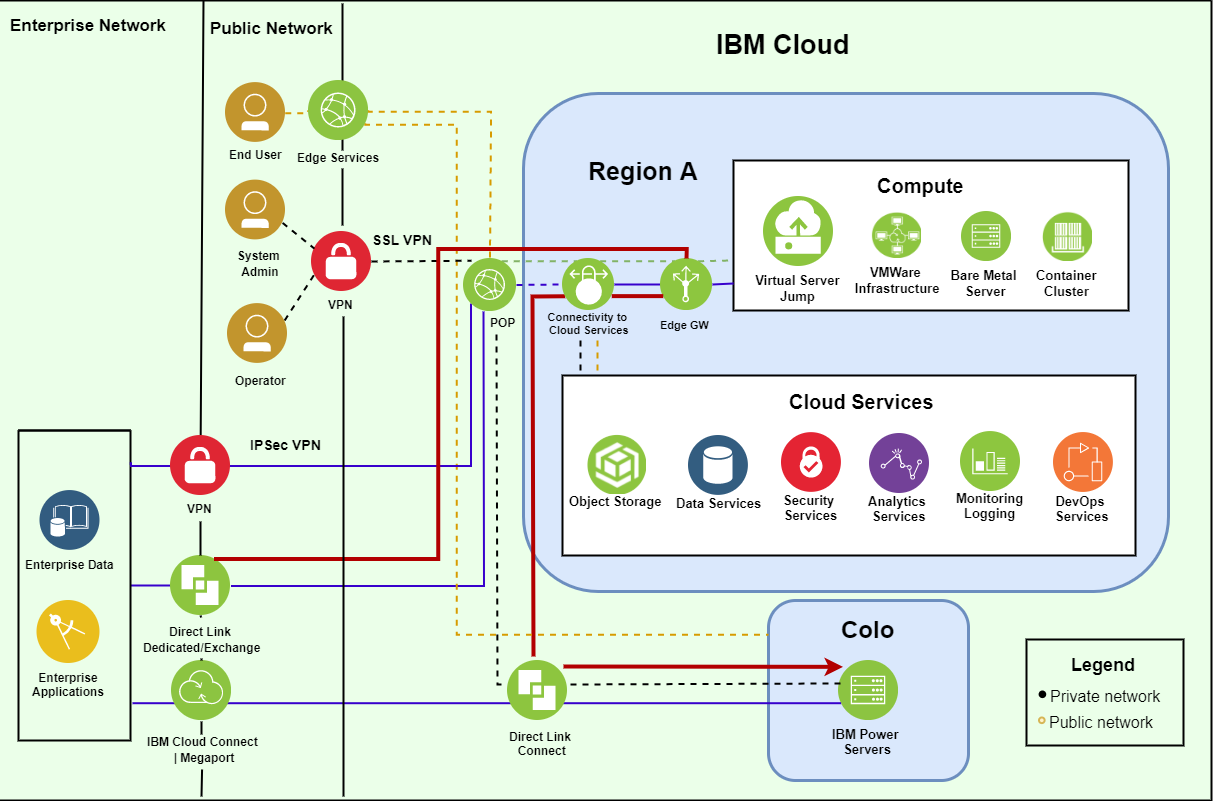
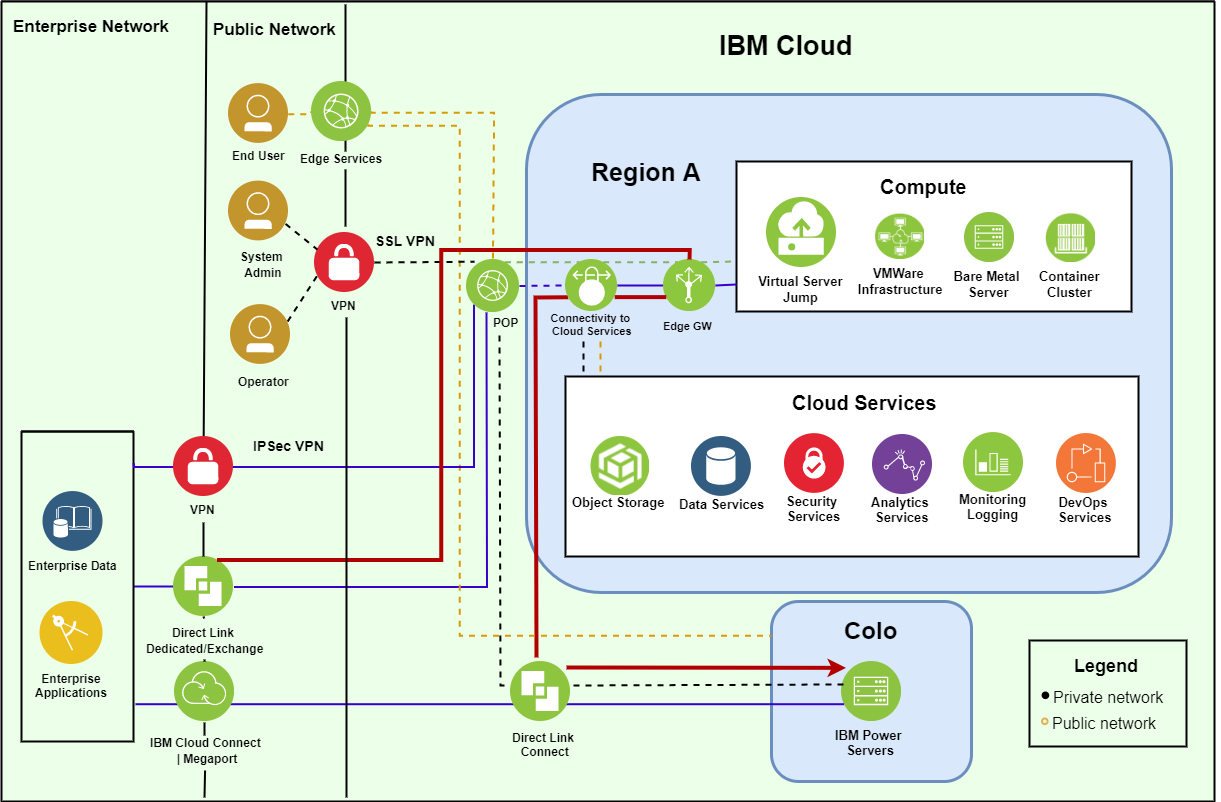
Fix network graphic borders

diff --git a/network-architecture.md b/network-architecture.md
@@ -25,7 +25,7 @@ subcollection: power-iaas
 # Network architecture
 {: #network-reference-architecture}
 
-Use the following graphics to better understand the {{site.data.keyword.powerSysShort} network architecture.
+Use the following graphics to better understand the {{site.data.keyword.powerSysShort}} network architecture.
 {: shortdesc}
 
 ## Private SSL connection
